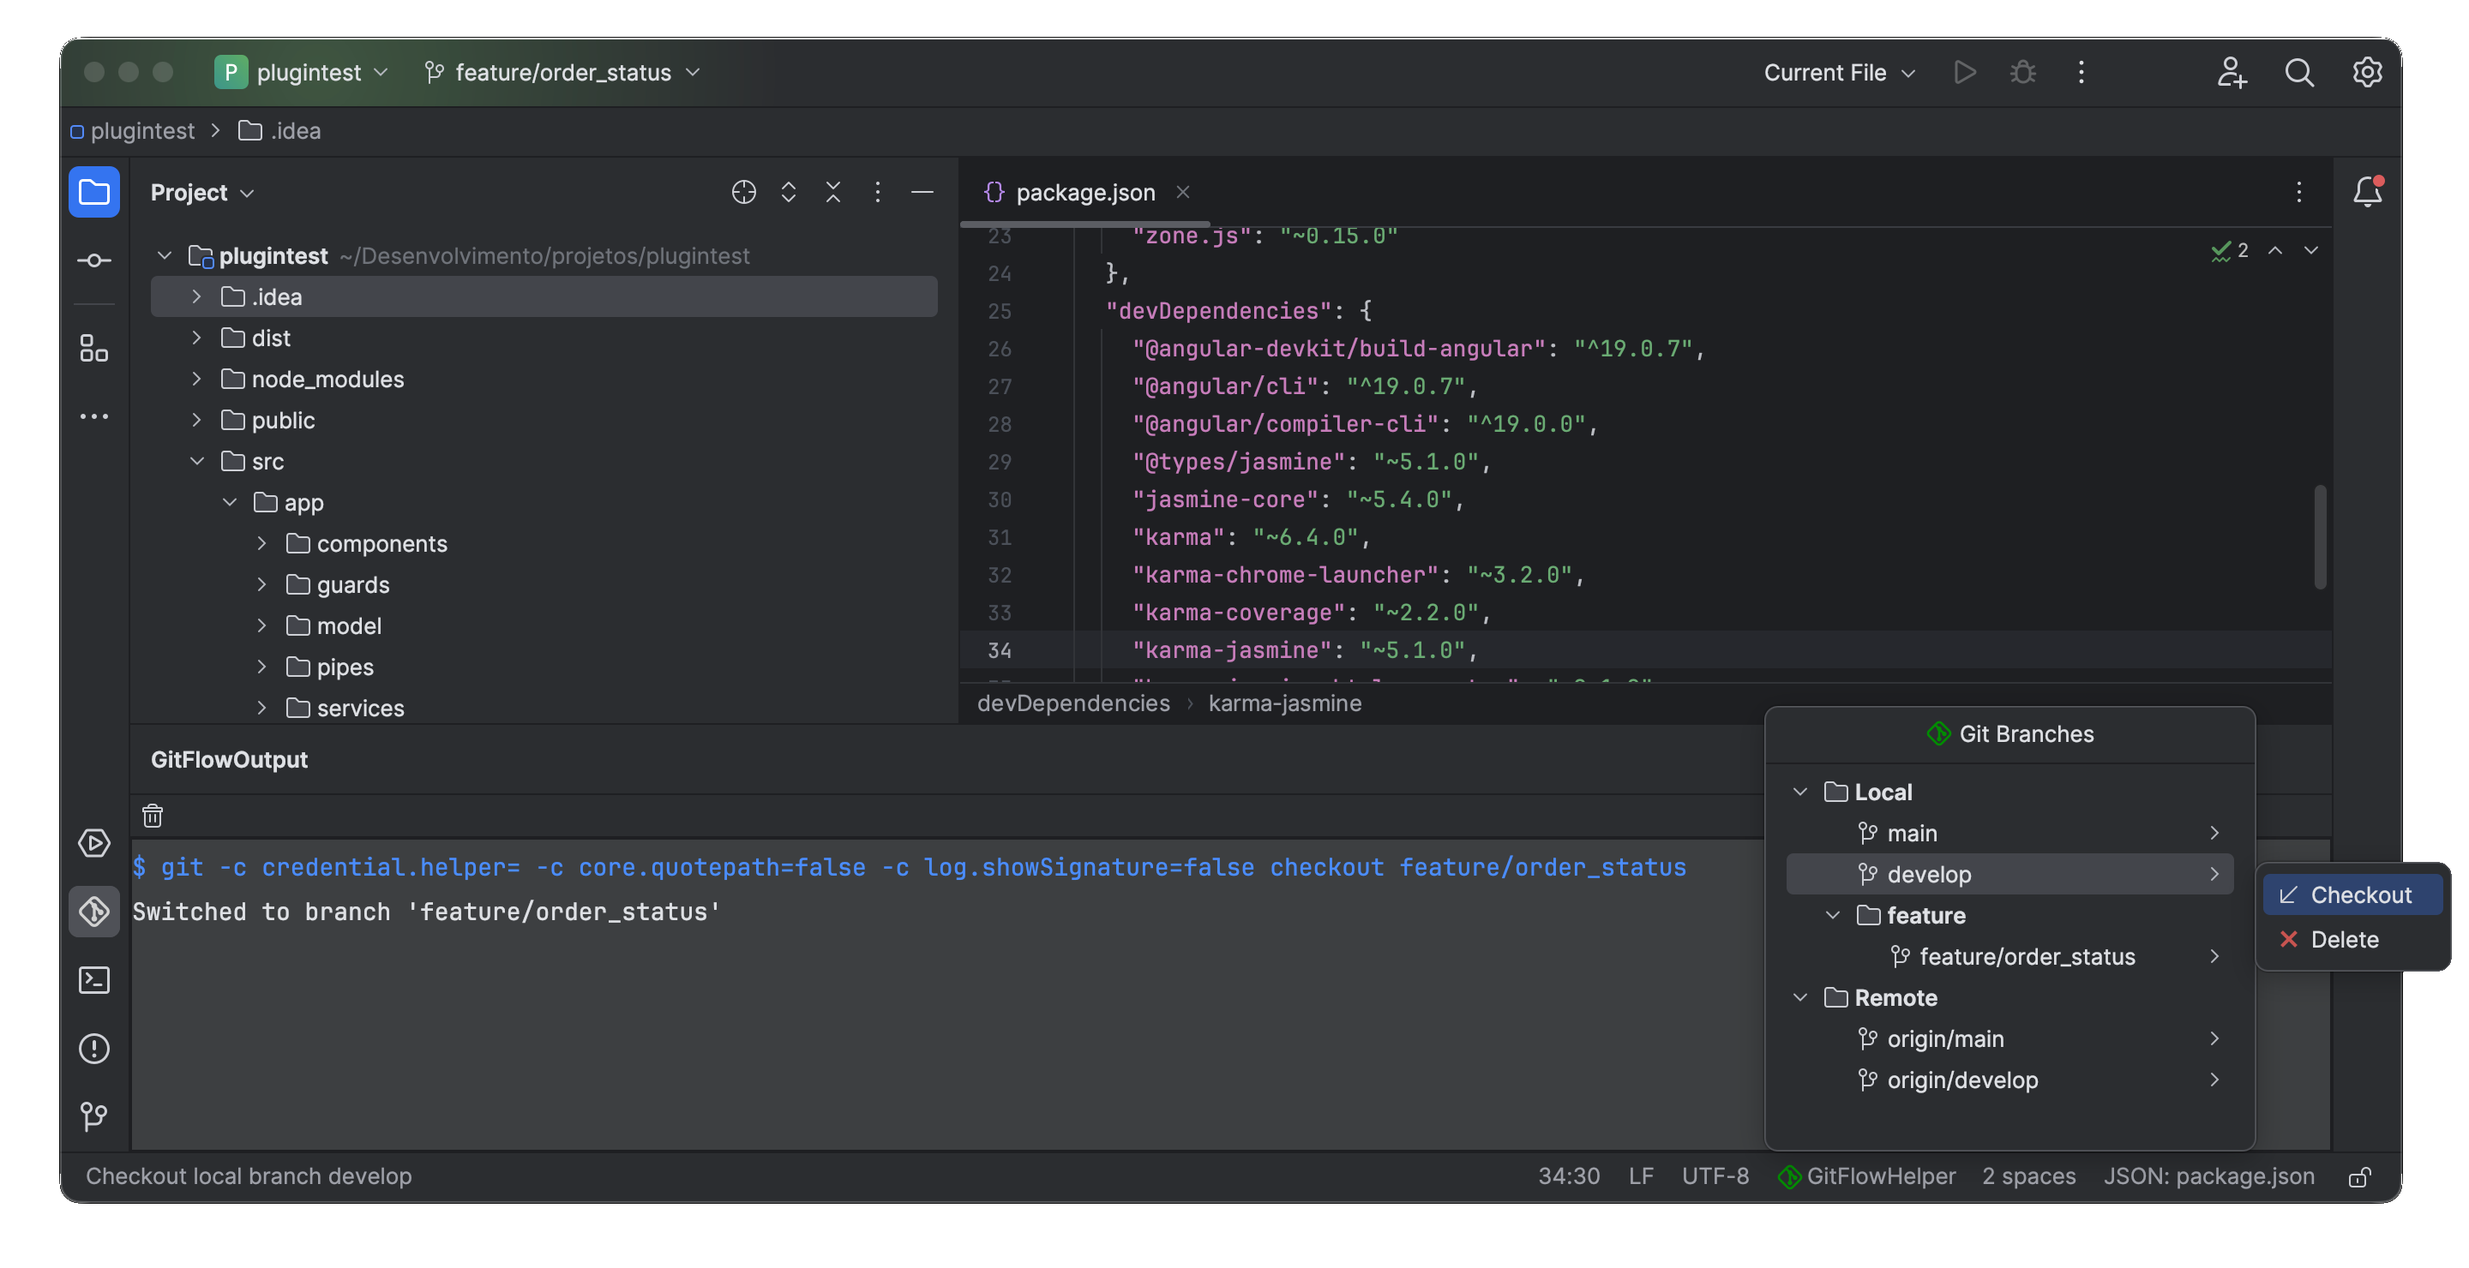
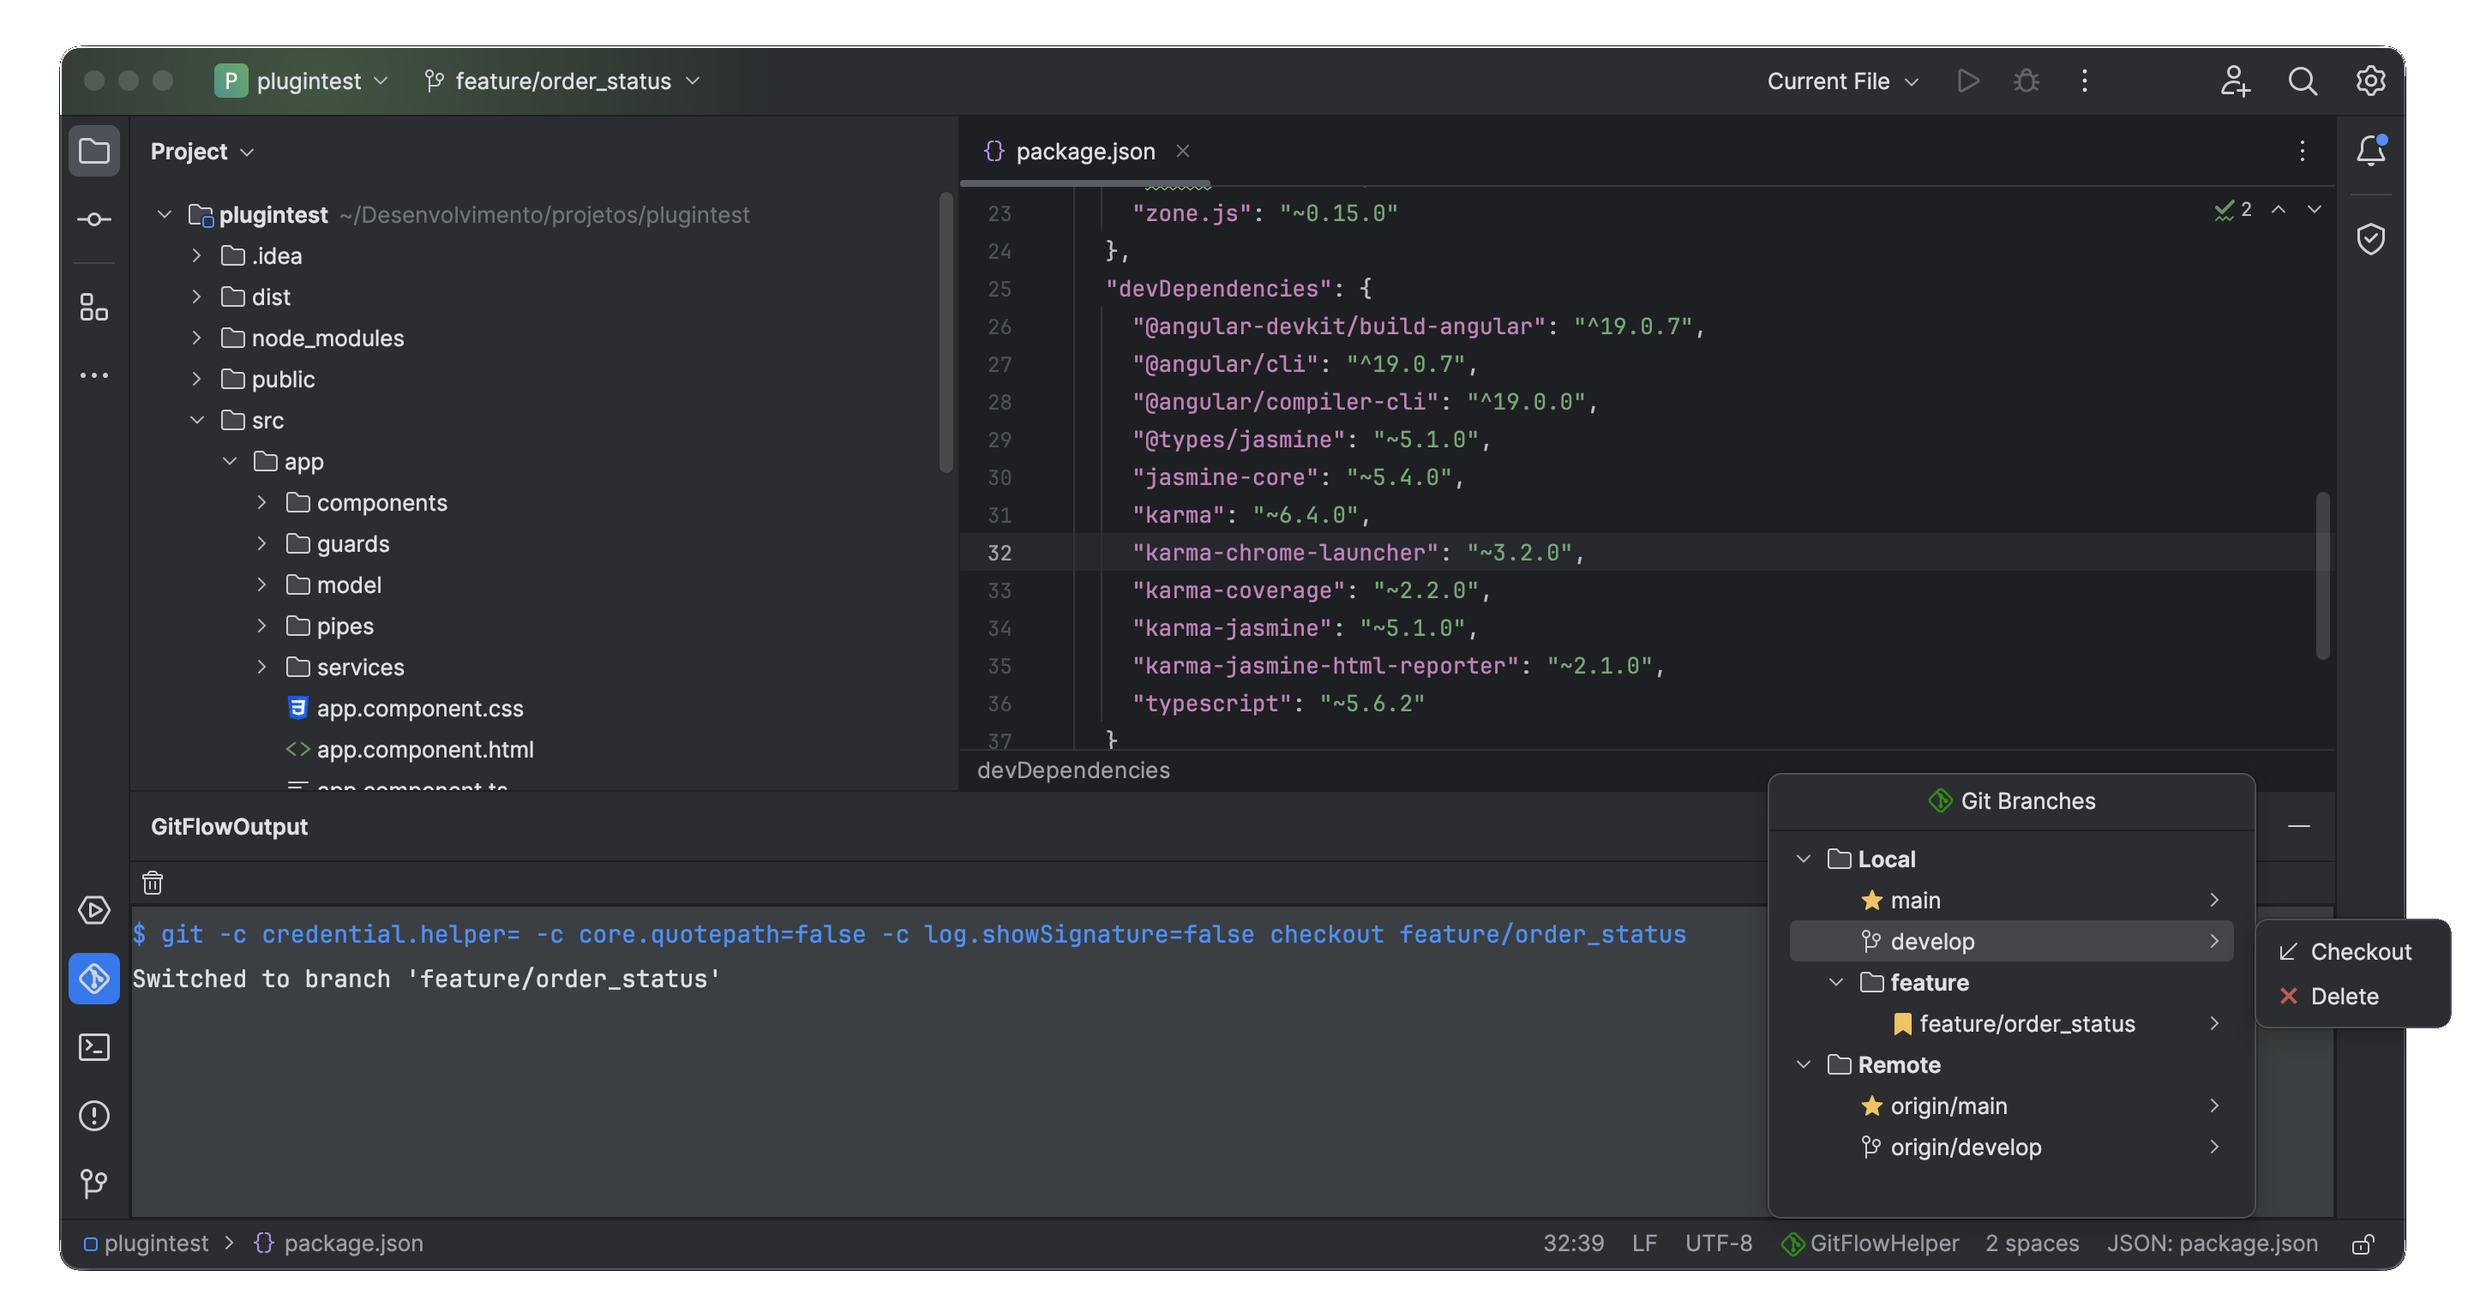
Final improvements

diff --git a/src/main/java/br/com/gitflowhelper/gittree/GitBranchPopupBuilder.java b/src/main/java/br/com/gitflowhelper/gittree/GitBranchPopupBuilder.java
@@ -1,9 +1,11 @@
 package br.com.gitflowhelper.gittree;
 
+import br.com.gitflowhelper.actions.BaseAction;
 import br.com.gitflowhelper.actions.branches.CheckoutLocalBranchAction;
 import br.com.gitflowhelper.actions.branches.CheckoutRemoteBranchAction;
 import br.com.gitflowhelper.actions.branches.DeleteLocalBranchAction;
 import br.com.gitflowhelper.actions.branches.DeleteRemoteBranchAction;
+import br.com.gitflowhelper.settings.GitFlowSettingsService;
 import br.com.gitflowhelper.util.ActionParamsService;
 import com.intellij.icons.AllIcons;
 import com.intellij.openapi.actionSystem.*;
@@ -35,6 +37,7 @@ import javax.swing.tree.TreePath;
 import java.awt.*;
 import java.awt.event.MouseAdapter;
 import java.awt.event.MouseEvent;
+import java.awt.event.MouseMotionAdapter;
 import java.util.List;
 
 public class GitBranchPopupBuilder {
@@ -54,8 +57,8 @@ public class GitBranchPopupBuilder {
         List<GitRepository> repositories = manager.getRepositories();
 
         for (GitRepository repo : repositories) {
-            groupLocalBranches(repo, localRoot);
-            groupRemoteBranches(repo, remoteRoot);
+            groupLocalBranches(repo, localRoot, project);
+            groupRemoteBranches(repo, remoteRoot, project);
         }
 
         Tree tree = new Tree(new DefaultTreeModel(root));
@@ -113,37 +116,29 @@ public class GitBranchPopupBuilder {
     }
 
     private static void installMouseListener(Tree tree) {
-        //---------- listener for change background on hover (future implementation) --------
-//        tree.putClientProperty("HOVER_ROW", -1);
-//
-//        tree.addMouseMotionListener(new MouseMotionListener() {
-//            @Override
-//            public void mouseMoved(MouseEvent e) {
-//                int row = tree.getRowForLocation(e.getX(), e.getY());
-//                Integer hoverRow = (Integer) tree.getClientProperty("HOVER_ROW");
-//
-//                if (hoverRow == null || row != hoverRow) {
-//                    tree.putClientProperty("HOVER_ROW", row);
-//                    PluginUtils.logOutput(ActionParamsService.getProject(), "HOVER_ROW "+ row);
-//                    tree.repaint();
-//                }
-//            }
-//
-//            @Override
-//            public void mouseDragged(MouseEvent e) {
-//                // não precisa implementar nada
-//            }
-//        });
-//
-//        tree.addMouseListener(new MouseAdapter() {
-//            @Override
-//            public void mouseExited(MouseEvent e) {
-//                tree.putClientProperty("HOVER_ROW", -1);
-//                tree.repaint();
-//            }
-//        });
+        tree.addMouseMotionListener(new MouseMotionAdapter() {
+            @Override
+            public void mouseMoved(MouseEvent e) {
 
-        //----------------------------------------------
+                int row = tree.getClosestRowForLocation(0, e.getY());
+
+                if (row != -1) {
+                    TreePath path = tree.getPathForRow(row);
+                    DefaultMutableTreeNode node =
+                            (DefaultMutableTreeNode) path.getLastPathComponent();
+
+                    if (node.isLeaf()) {
+                        tree.setCursor(Cursor.getPredefinedCursor(Cursor.HAND_CURSOR));
+                    } else {
+                        tree.setCursor(Cursor.getDefaultCursor());
+                    }
+
+                } else {
+                    tree.setCursor(Cursor.getDefaultCursor());
+                }
+            }
+        });
+
         tree.addMouseListener(new MouseAdapter() {
             @Override
             public void mouseReleased(MouseEvent e) {
@@ -151,7 +146,7 @@ public class GitBranchPopupBuilder {
                     return;
                 }
 
-                TreePath path = tree.getPathForLocation(e.getX(), e.getY());
+                TreePath path = getPathByY(e.getY());
                 if (path == null) {
                     return;
                 }
@@ -160,25 +155,29 @@ public class GitBranchPopupBuilder {
                         (DefaultMutableTreeNode) path.getLastPathComponent();
 
                 if (node.isLeaf()) {
-                    showPopup(e);
+                    showPopup(node, e);
                 }
             }
 
-            private void showPopup(MouseEvent e) {
-                TreePath path = tree.getPathForLocation(e.getX(), e.getY());
-                if (path == null) return;
+            private TreePath getPathByY(int y) {
+                int row = tree.getClosestRowForLocation(0, y);
+                if (row < 0) return null;
 
-                tree.setSelectionPath(path);
+                Rectangle r = tree.getRowBounds(row);
+                if (r == null) return null;
 
-                DefaultMutableTreeNode node =
-                        (DefaultMutableTreeNode) path.getLastPathComponent();
+                // VERY IMPORTANT: prevents “sticking” to the last item when clicking outside the rows
+                if (y < r.y || y >= r.y + r.height) return null;
 
+                return tree.getPathForRow(row);
+            }
+
+            private void showPopup(DefaultMutableTreeNode node, MouseEvent e) {
                 BranchNode branchNode = (BranchNode) node.getUserObject();
                 DefaultActionGroup group = branchNode.getGroup();
                 ActionPopupMenu popupMenu = ActionManager.getInstance()
                                 .createActionPopupMenu("MyTreePopup", group);
-
-                popupMenu.getComponent().show(tree, tree.getX()+ tree.getWidth(), e.getY());
+                popupMenu.getComponent().show(tree, tree.getX()+ tree.getWidth(), e.getY()-5);
             }
         });
     }
@@ -233,23 +232,6 @@ public class GitBranchPopupBuilder {
                     panel.add(chevronWrapper, BorderLayout.EAST);
                 }
 
-                //---------- change background on hover (future implementation) --------
-                // Integer hoverRow = (Integer) tree.getClientProperty("HOVER_ROW");
-//                boolean isHover = hoverRow != null && row == hoverRow;
-//                if (selected) {
-//                    PluginUtils.logOutput(ActionParamsService.getProject(), "selected HOVER_ROW "+ hoverRow);
-//                    panel.setBackground(UIUtil.getTreeSelectionBackground(true));
-//                    panel.setOpaque(true);
-//                } else if (isHover) {
-//                    PluginUtils.logOutput(ActionParamsService.getProject(), "isHover HOVER_ROW "+ hoverRow);
-//                    panel.setEnabled(false);
-//                    panel.setBackground(UIUtil.getTreeSelectionBackground());
-//                    panel.setOpaque(true);
-//                } else {
-//                    PluginUtils.logOutput(ActionParamsService.getProject(), "Comum HOVER_ROW "+ hoverRow);
-//                    panel.setOpaque(false);
-//                }
-
                 return panel;
             }
         });
@@ -264,13 +246,14 @@ public class GitBranchPopupBuilder {
         }, true);
     }
 
-    private static void groupLocalBranches(GitRepository repo, DefaultMutableTreeNode parent) {
+    private static void groupLocalBranches(GitRepository repo, DefaultMutableTreeNode parent, Project project) {
         DefaultMutableTreeNode feature = new DefaultMutableTreeNode("feature");
         DefaultMutableTreeNode release = new DefaultMutableTreeNode("release");
         DefaultMutableTreeNode hotfix = new DefaultMutableTreeNode("hotfix");
 
         for (GitLocalBranch branch : repo.getBranches().getLocalBranches()) {
-            addBranchNode(branch.getName(), parent, feature, release, hotfix, false, repo);
+            boolean current = branch.getName().endsWith(repo.getCurrentBranchName());
+            addBranchNode(branch.getName(), parent, feature, release, hotfix, false, repo, project, current);
         }
 
         attachIfNotEmpty(parent, feature);
@@ -278,13 +261,14 @@ public class GitBranchPopupBuilder {
         attachIfNotEmpty(parent, hotfix);
     }
 
-    private static void groupRemoteBranches(GitRepository repo, DefaultMutableTreeNode parent) {
+    private static void groupRemoteBranches(GitRepository repo, DefaultMutableTreeNode parent, Project project) {
         DefaultMutableTreeNode feature = new DefaultMutableTreeNode("feature");
         DefaultMutableTreeNode release = new DefaultMutableTreeNode("release");
         DefaultMutableTreeNode hotfix = new DefaultMutableTreeNode("hotfix");
 
         for (GitRemoteBranch branch : repo.getBranches().getRemoteBranches()) {
-            addBranchNode(branch.getName(), parent, feature, release, hotfix, true, repo);
+            boolean current = branch.getName().endsWith(repo.getCurrentBranchName());
+            addBranchNode(branch.getName(), parent, feature, release, hotfix, true, repo, project, current);
         }
 
         attachIfNotEmpty(parent, feature);
@@ -298,12 +282,22 @@ public class GitBranchPopupBuilder {
                                       DefaultMutableTreeNode release,
                                       DefaultMutableTreeNode hotfix,
                                       Boolean remote,
-                                      GitRepository repo) {
+                                      GitRepository repo,
+                                      Project project,
+                                      Boolean current) {
+
         DefaultActionGroup group = new DefaultActionGroup();
+        Icon icon = null;
+        icon = (current ?
+                AllIcons.Gutter.Bookmark :
+                name.endsWith(GitFlowSettingsService.getInstance(ActionParamsService.getProject()).getMainBranch()) ?
+                        AllIcons.Nodes.Favorite :
+                        AllIcons.Vcs.BranchNode);
+
         var node = new DefaultMutableTreeNode(
                 new BranchNode(
                         name,
-                        AllIcons.Vcs.Branch,
+                        icon,
                         false,
                         remote,
                         group
@@ -319,6 +313,15 @@ public class GitBranchPopupBuilder {
             ActionParamsService.addName(newDeleteAction, branchNode.getName());
             group.add(newCheckoutAction);
             group.add(newDeleteAction);
+            if (name.startsWith(BaseAction.REMOTE+"/"+GitFlowSettingsService.getInstance(project).getFeaturePrefix())) {
+                feature.add(node);
+            } else if (name.startsWith(BaseAction.REMOTE+"/"+GitFlowSettingsService.getInstance(project).getReleasePrefix())) {
+                release.add(node);
+            } else if (name.startsWith(BaseAction.REMOTE+"/"+GitFlowSettingsService.getInstance(project).getHotfixPrefix())) {
+                hotfix.add(node);
+            } else {
+                parent.add(node);
+            }
         } else {
             var newCheckoutAction = new CheckoutLocalBranchAction("Checkout", branchNode.getName());
             var newDeleteAction = new DeleteLocalBranchAction("Delete", branchNode.getName());
@@ -328,17 +331,17 @@ public class GitBranchPopupBuilder {
             ActionParamsService.addName(newDeleteAction, branchNode.getName());
             group.add(newCheckoutAction);
             group.add(newDeleteAction);
+            if (name.startsWith(GitFlowSettingsService.getInstance(project).getFeaturePrefix())) {
+                feature.add(node);
+            } else if (name.startsWith(GitFlowSettingsService.getInstance(project).getReleasePrefix())) {
+                release.add(node);
+            } else if (name.startsWith(GitFlowSettingsService.getInstance(project).getHotfixPrefix())) {
+                hotfix.add(node);
+            } else {
+                parent.add(node);
+            }
         }
 
-        if (name.startsWith("feature/")) {
-            feature.add(node);
-        } else if (name.startsWith("release/")) {
-            release.add(node);
-        } else if (name.startsWith("hotfix/")) {
-            hotfix.add(node);
-        } else {
-            parent.add(node);
-        }
     }
 
     private static void attachIfNotEmpty(DefaultMutableTreeNode parent, DefaultMutableTreeNode node) {

diff --git a/src/main/java/br/com/gitflowhelper/actions/branches/CheckoutRemoteBranchAction.java b/src/main/java/br/com/gitflowhelper/actions/branches/CheckoutRemoteBranchAction.java
@@ -47,26 +47,30 @@ public class CheckoutRemoteBranchAction extends BaseAction {
         String localBranch =
                 checkoutBranchName.substring(checkoutBranchName.indexOf('/') + 1);
 
-        GitBranch branch = repository.getBranches().findLocalBranch(localBranch);
-        if (branch != null) {
-            new CheckoutLocalBranchAction("", localBranch)
-                    .checkout(repository, project, localBranch);
-            return;
-        }
 
         ApplicationManager.getApplication().executeOnPooledThread(() -> {
+            boolean needsRemote = true;
             setLoading(true);
             try {
-                executor.execute(
-                        repository.getRoot(),
-                        GitCommand.CHECKOUT,
-                        "-b",
-                        localBranch,
-                        "--track",
-                        checkoutBranchName
-                );
+                GitBranch branch = repository.getBranches().findLocalBranch(localBranch);
+                if (branch != null) {
+                    new CheckoutLocalBranchAction("", localBranch)
+                            .checkout(repository, project, localBranch);
+                    needsRemote = false;
+
+                }
+                if (needsRemote) {
+                    executor.execute(
+                            repository.getRoot(),
+                            GitCommand.CHECKOUT,
+                            "-b",
+                            localBranch,
+                            "--track",
+                            checkoutBranchName
+                    );
+                }
                 repository.update();
-                NotificationUtil.showGitFlowSuccessNotification(project, "Success", "Remote branch "+checkoutBranchName+" checked out successfully");
+                NotificationUtil.showGitFlowSuccessNotification(project, "Success", "Remote branch " + checkoutBranchName + " checked out successfully");
             } catch (GitException ex) {
                 NotificationUtil.showGitFlowErrorNotification(project, "Error", ex.getGitResult().getProcessMessage());
             }

diff --git a/src/main/java/br/com/gitflowhelper/popup/GitFlowPopup.java b/src/main/java/br/com/gitflowhelper/popup/GitFlowPopup.java
@@ -261,9 +261,9 @@ public final class GitFlowPopup extends PropertyObserver {
         List<T> result = new ArrayList<>();
 
         // 1) current branch
-        if (currentBranchName != null && byName.containsKey(currentBranchName)) {
-            result.add(byName.remove(currentBranchName));
-        }
+//        if (currentBranchName != null && byName.containsKey(currentBranchName)) {
+//            result.add(byName.remove(currentBranchName));
+//        }
 
         // 2) main
         if (byName.containsKey(service.getMainBranch())) {
